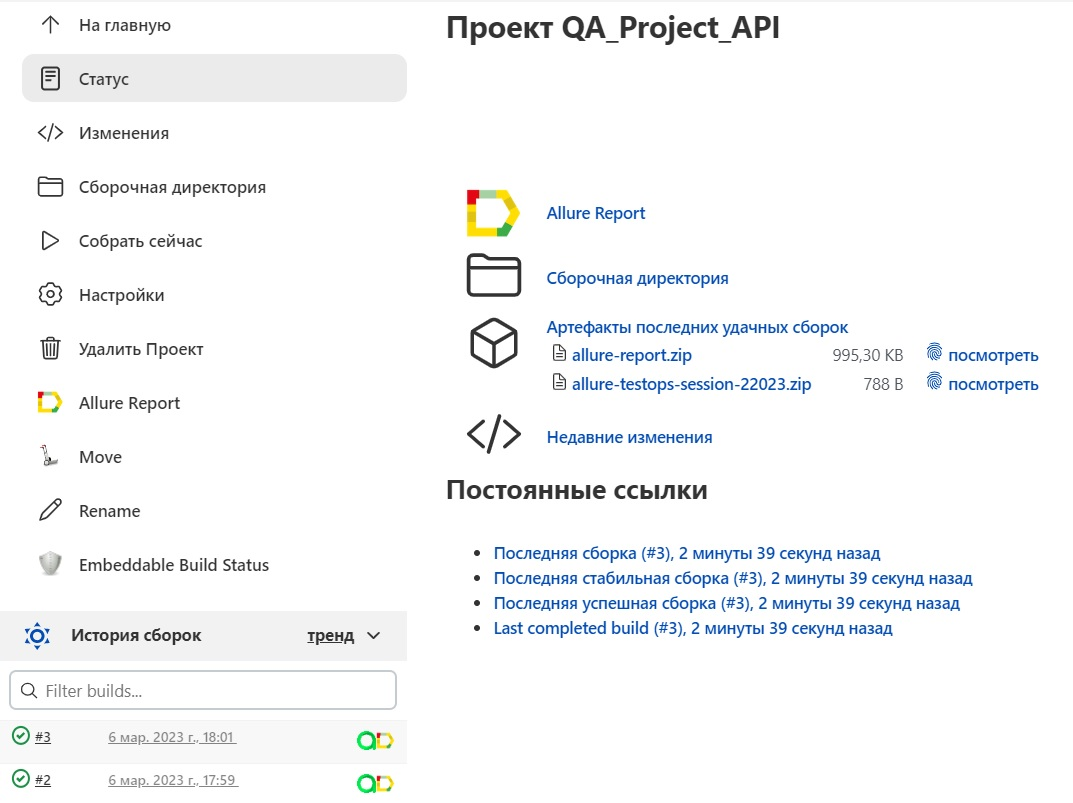
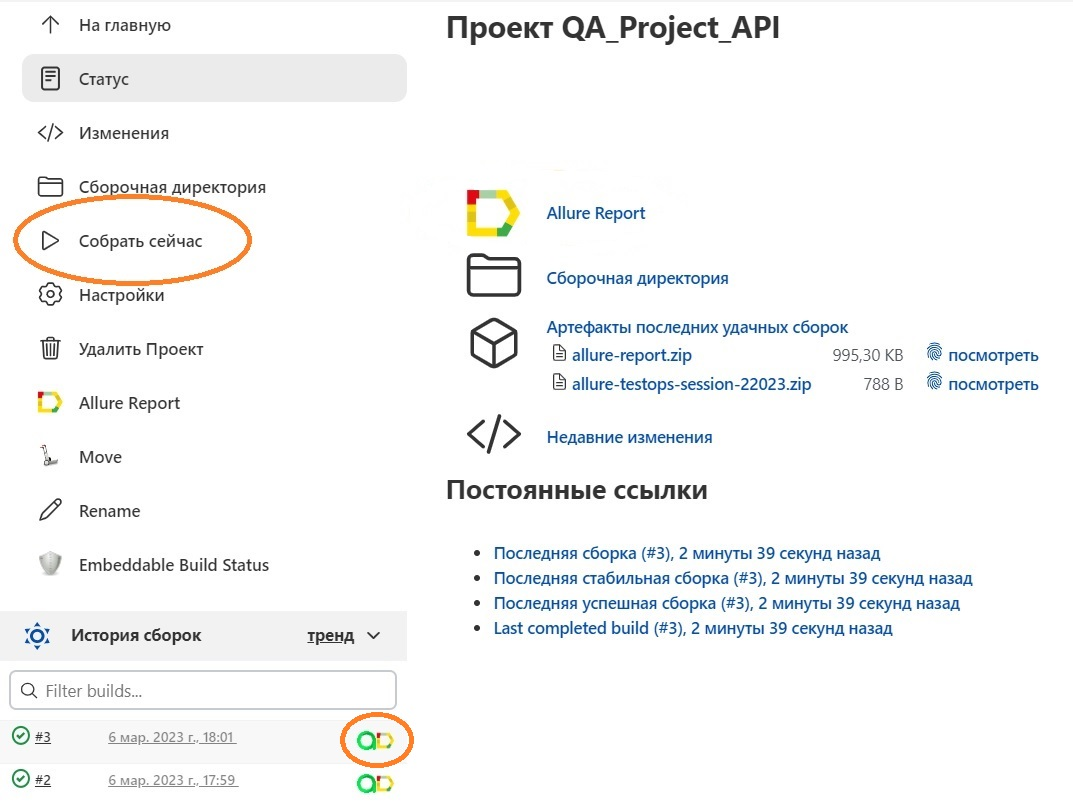
add telega

diff --git a/README.md b/README.md
@@ -12,7 +12,7 @@
 
 
 ### :technologist: Технологии и инструменты
-<p  align="center">
+
 
 <code><img width="5%" title="Allure Report" src="images/icons/Allure.svg"></code>
 <code><img width="5%" title="IntelliJ IDEA" src="images/icons/Idea.svg"></code>
@@ -24,9 +24,6 @@
 <code><img width="5%" title="Allure TestOps" src="images/icons/Allure_TO.svg"></code>
 <code><img width="5%" title="GitHub" src="images/icons/GitHub.svg"></code>
 
-[//]: # (<code><img width="5%" title="Telegram" src="images/logo/Telegram.svg"></code>) - телега
-
-</p>
 
 ## :bookmark_tabs: Реализованные проверки:
 
@@ -46,39 +43,39 @@
 gradle clean test
 ```
 
-## <img width="4%" title="Jenkins" src="images/logo/Jenkins.svg"> Запуск тестов в [Jenkins](https://jenkins.autotests.cloud/job/tmaksyutov_diplom_api/)
+## Запуск тестов в <img width="4%" title="Allure TestOPS" src="images/icons/Jenkins.svg">[Jenkins](https://jenkins.autotests.cloud/job/tmaksyutov_diplom_api/)
 
-Для запуска сборки необходимо нажать кнопку <code><strong>*Собрать*</strong></code>.
+Для запуска сборки необходимо нажать кнопку <code><strong>*Собрать сейчас*</strong></code>.
 
 <p align="center">
-  <img src="images/screenshot/jenkins.png" alt="Jenkins" width="800">
+  <img src="images/screen/AllureSborka.jpg" alt="Jenkins" width="800">
 </p>
 
 После выполнения сборки, в блоке <code><strong>*История сборок*</strong></code> напротив номера сборки появится
-значок *Allure Report*, кликнув по которому, откроется страница с сформированным html-отчетом.
+значок *Allure TestOps и Allure Report*, кликнув по которым, откроются соответствующие страницы с html-отчетом. 
 
-## <img width="4%" title="Allure Report" src="images/logo/Allure.svg"> Отчет о результатах тестирования в [Allure Report](https://jenkins.autotests.cloud/job/tmaksyutov_diplom_api/allure/)
+## Отчет о результатах тестирования в <img width="4%" title="Allure TestOPS" src="images/icons/Allure.svg">[Allure Report](https://jenkins.autotests.cloud/job/tmaksyutov_diplom_api/allure/)
 
 <p align="center">
-  <img src="images/screenshot/allure-report1.png" alt="allure-report1" width="900">
+  <img src="images/screen/AllureAPIMain.jpg" alt="allure-report1" width="900">
 </p>
 
 <p align="center">
-  <img src="images/screenshot/allure-report.png" alt="allure-report" width="900">
+  <img src="images/screen/AllureAPI.jpg" alt="allure-report" width="900">
 </p>
 
-## <img width="4%" title="Allure TestOPS" src="images/logo/Allure_TO.svg"> Интеграция с [Allure TestOps](https://allure.autotests.cloud/launch/17992)
+##  Интеграция с <img width="4%" title="Allure TestOPS" src="images/icons/Allure_TO.svg"> [Allure TestOps](https://allure.autotests.cloud/launch/17992)
 
 ### Основной дашборд
 
 <p align="center">
-  <img src="images/screenshot/dashboard.png" alt="dashboard" width="900">
+  <img src="images/screen/AllureopsMainAPI.jpg" alt="dashboard" width="900">
 </p>
 
 ### Список тестов с результатами прогона
 
 <p align="center">
-  <img src="images/screenshot/allure-testops-results.png" alt="dashboard" width="900">
+  <img src="images/screen/AllureOPSAPI.jpg" alt="dashboard" width="900">
 </p>
 
 ### Тест-кейсы
@@ -91,4 +88,4 @@ gradle clean test
 После завершения сборки специальный бот, созданный в <code>Telegram</code>, автоматически обрабатывает и отправляет сообщение с отчетом о прогоне тестов.
 
 <p align="center">
-<img title="Telegram Notifications" src="images/screenshot/notification.png">
+<img title="Telegram Notifications" src="images/screen/APItELEGRAM.jpg">
